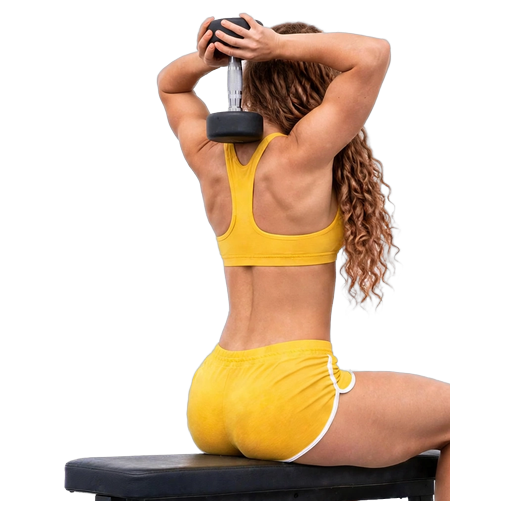
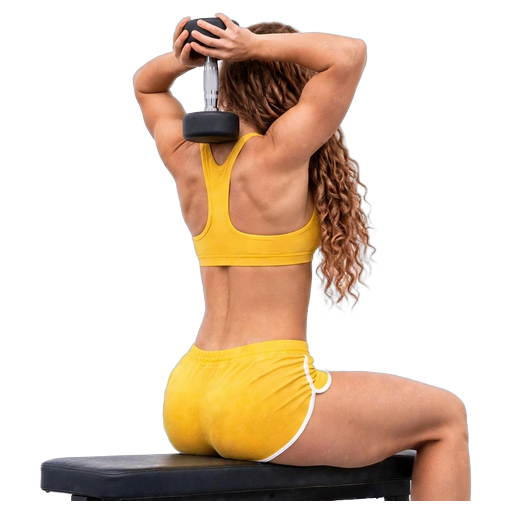
1.8.45 : extension triceps haltère, genou entier
Claude-Session: https://claude.ai/code/session_01D2bERS7WBZgExNoVRodtwC

Changed region(s): [[0.0625, 0.0312, 0.9375, 1.0]]

diff --git a/sw.js b/sw.js
@@ -4,7 +4,7 @@
 // APP_VERSION doit être incrémenté à chaque release (en même temps que
 // manifest.json) : le navigateur ne réinstalle le service worker que si
 // le contenu de ce fichier change.
-const APP_VERSION = '1.8.44';
+const APP_VERSION = '1.8.45';
 // 1.7.64 (co-auteur : Claude) : production (…/suivi-fitness/) et test (…/suivi-fitness/dev/) sont sur le même
 // domaine et partagent le stockage des caches : chaque version nomme ses caches d'après son dossier et ne
 // supprime que les siens (plus les anciens caches sans dossier, d'avant la 1.7.64).

diff --git a/CHANGELOG.md b/CHANGELOG.md
@@ -7,6 +7,12 @@ et ce projet respecte [Semantic Versioning](https://semver.org/spec/v2.0.0.html)
 
 ---
 
+## [1.8.45] - 2026-11-18
+### 🎨 Extension triceps haltère : genou entier (co-auteur : Claude)
+- Cadrage élargi à droite : le genou n'est plus coupé, l'assise du banc reste visible.
+
+---
+
 ## [1.8.44] - 2026-11-18
 ### 🎨 Les 3 dernières icônes d'exercices : tout le catalogue est illustré (co-auteur : Claude)
 - Extension triceps haltère : serrée sur le geste, assise du banc visible.
